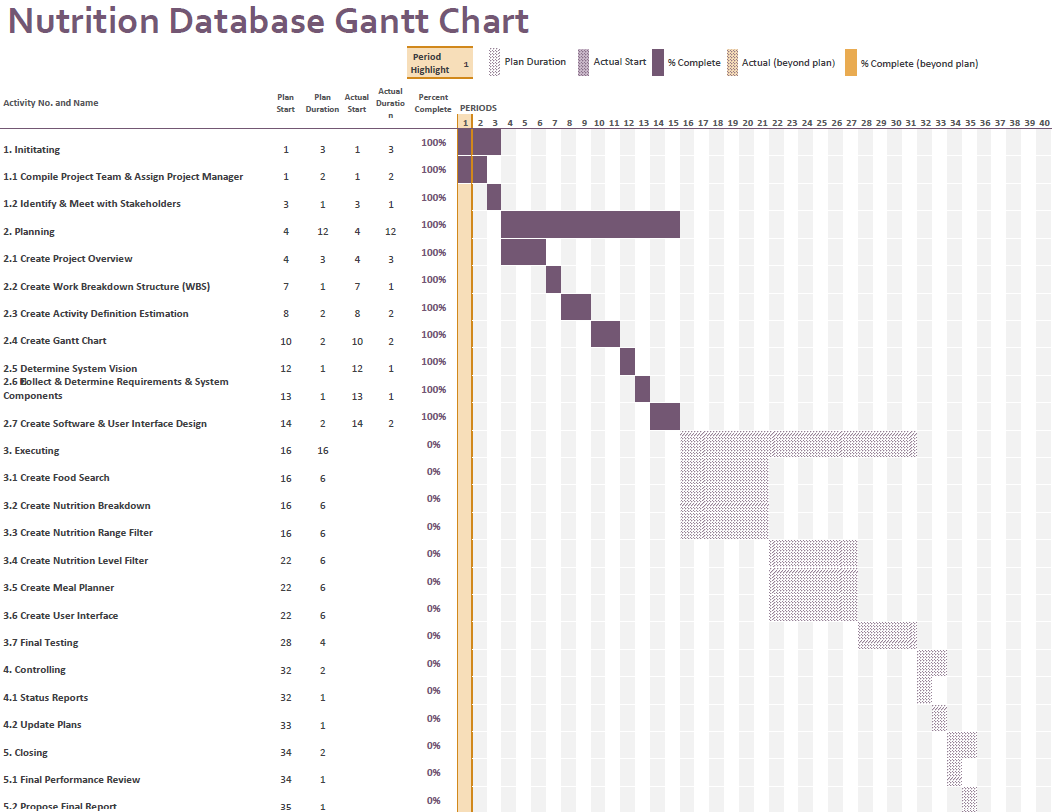
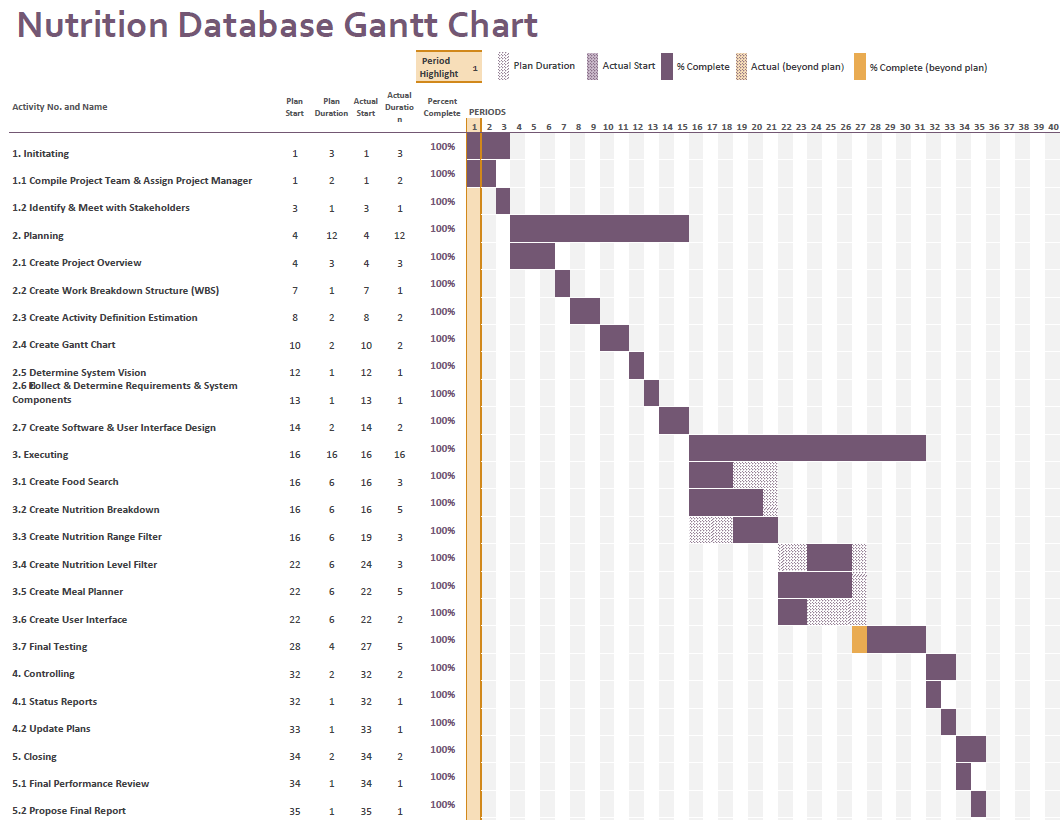
1.9

diff --git a/documents/Project Plan.md b/documents/Project Plan.md
@@ -15,11 +15,11 @@
 
 Please Describe what you have accomplished in this group project.
 - s5404039, Ekaterina Kozub
-  - Accomplishments: Project Overview, Activity Definition Estimation, Gantt Chart, System Vision, Requirements, Software Design (Flowchart), Food Search (Feature), Nutritional Breakdown (Feature), general setup of project, and general reviewing and editing.
+  - Accomplishments: Project Overview, Activity Definition Estimation, Gantt Chart, System Vision, Requirements, Software Design (Flowchart), general setup of project, general reviewing and editing, <span style="color:red">Food Search (Feature), and Nutritional Breakdown (Feature). </span>
 - s5271400, Ella Baines-Lang
-  - Accomplishments: Work Breakdown Structure, System Components (Functions & Detailed Design), User Interface Design (Visual Design), and User Interface (Code).
+  - Accomplishments: Work Breakdown Structure, System Components (Functions & Detailed Design), User Interface Design (Visual Design), and <span style="color:red">User Interface (Code).</span>
 - s5303300, Fiston Kayeye
-  - Accomplishments: Activity Definition Estimation, Gantt Chart, Data Structures, User Interface Design (Structural Design), and Nutritional Breakown (Feature).
+  - Accomplishments: Activity Definition Estimation, Gantt Chart, Data Structures, User Interface Design (Structural Design), and <span style="color:red"> Nutritional Breakown (Feature).</span>
 
 <div style="page-break-after: always;"></div>
 
@@ -100,35 +100,38 @@ The health enthusiasts are general users that are interested in having a healthy
 ![Work Breakdown Structure](images/WBS.png)
 
 ## 3. Activity Definition Estimation
-The whole project will take 35 days (excluding weekends as these days will not be work days for this project). Some tasks will be done consecutively, so look at the Gantt Chart to get further detail.
+The whole project will take 35 days (excluding weekends as these days will not be work days for this project). Some tasks will be done consecutively, so look at the Gantt Chart to get further detail.<span style="color:red">Some tasks took longer/shorter than expected (this will be shown in the Gantt Chart) and some teammates did work that they weren't assigned due to other teammates shortcomings. This Activity Definition Estimation table will outline the updated teammates that did some of the tasks they were not orginally assigned.</span>
 
-| Activity #No | Activity Name | Brief Description | Duration | Responsible Team Members |
-|--------------|---------------|-------------------|----------|--------------------------|
-| 1          | Initiating           | Start project, assign Project Manager, and identify and meet with stakeholders.               | 3 days      | All               |
-| 1.1         | Compile Project Team & Assign Project Manager           | Assemble team and determine the Project Manager.               | 2 days      | All                      |
-| 1.2        | Identify & Meet with Stakeholders           | Identify key stakeholders and conduct a meeting with them.               | 1 day      | All                      |
-| 2        | Planning           | Develop a detailed plan covering all aspects of the project.               | 12 days      | All                      |
-| 2.1       | Create Project Overview           | Create a Project Overview Document that defines the objectives, stakeholder, and scope.               | 3 days      | Ekaterina                      |
-| 2.2        | Create Work Breakdown Structure (WBS)           | Break down the project into smaller and more manageable tasks. Visualizing this through an image.               | 1 day      | Ella                      |
-| 2.3        | Create Activity Definition Estimation          | From the WBS make an Activity Definition Estimation that provides a brief description, duration, and responsible team members for each task.               | 2 days      | Ekaterina & Fiston                      |
-| 2.4        | Create Gantt Chart           | Create a Gantt Chart that visualizes the Activity Definition Estimation.               | 2 days      | Ekaterina & Fiston                      |
-| 2.5        | Determine System Vision           | Create the System Vision Document that includes the problem background, system capabilities/overview, and potential benefits of the system.               | 1 day      | Ekaterina                      |
-| 2.6        | Collect & Determine Requirements & System Components           | Collect and determine requirements, this includes user requirements, software requirements, use case diagrams, and use cases. The same will go with the System Components, which includes functions, data structures/data sources, and a detailed design.                | 1 day      | All                      |
-| 2.7        | Create Software & User Interface Design           | Create a Structural, Visual, and Software Design.               | 2 days      | Ella & Fiston                      |
-| 3        | Executing           | Implement the project plan and create code.              | 16 days      | All                      |
-| 3.1        | Create Food Search         | Develop the Food Search function.               | 6 days      | Ekaterina                      |
-| 3.2        | Create Nutrition Breakdown         | Develop the Nutrition Breakdown function.               | 6 days      | Ella                      |
-| 3.3        | Create Nutrition Range Filter         | Develop the Nutrition Range Filter function.             | 6 days      | Fiston                      |
-| 3.4        | Create Nutrition Level Filter         | Develop the Nutrition Level Filter function.              | 6 days      | Fiston                      |
-| 3.5        | Create Meal Planner         | Develop the Meal Planner function.               | 6 days      | Ella                      |
-| 3.6        | Create User Interface         | Develop the User Interface function.               | 6 days      | Ekaterina                      |
-| 3.7        | Final Testing         | Test the whole system and correct errors.               | 4 days      | All                      |
-| 4        | Controlling         | Monitor and control the project's progress.               | 2 days      | Ekaterina                      |
-| 4.1        | Status Reports         | Generate regular status reports.               | 1 day      | Ekaterina                      |
-| 4.2        | Update Plans         | Adjust plans over the projects progress.               | 1 day      | Ekaterina                      |
-| 5        | Closing         | Finalize and close the project.               | 2 days      | All                      |
-| 5.1     | Final Performance Review         | Review the project's performance against the objectives.               | 1 day      | All                      |
-| 5.2        | Propose Final Report         | Create a final project report.               | 1 day      | All                      |
+| Activity #No | Activity Name | Brief Description | Duration | Responsible Team Members                           |
+|--------------|---------------|-------------------|----------|----------------------------------------------------|
+| 1          | Initiating           | Start project, assign Project Manager, and identify and meet with stakeholders.               | 3 days      | All                                                |
+| 1.1         | Compile Project Team & Assign Project Manager           | Assemble team and determine the Project Manager.               | 2 days      | All                                                |
+| 1.2        | Identify & Meet with Stakeholders           | Identify key stakeholders and conduct a meeting with them.               | 1 day      | All                                                |
+| 2        | Planning           | Develop a detailed plan covering all aspects of the project.               | 12 days      | All                                                |
+| 2.1       | Create Project Overview           | Create a Project Overview Document that defines the objectives, stakeholder, and scope.               | 3 days      | Ekaterina                                          |
+| 2.2        | Create Work Breakdown Structure (WBS)           | Break down the project into smaller and more manageable tasks. Visualizing this through an image.               | 1 day      | Ella                                               |
+| 2.3        | Create Activity Definition Estimation          | From the WBS make an Activity Definition Estimation that provides a brief description, duration, and responsible team members for each task.               | 2 days      | Ekaterina & Fiston                                 |
+| 2.4        | Create Gantt Chart           | Create a Gantt Chart that visualizes the Activity Definition Estimation.               | 2 days      | Ekaterina & Fiston                                 |
+| 2.5        | Determine System Vision           | Create the System Vision Document that includes the problem background, system capabilities/overview, and potential benefits of the system.               | 1 day      | Ekaterina                                          |
+| 2.6        | Collect & Determine Requirements & System Components           | Collect and determine requirements, this includes user requirements, software requirements, use case diagrams, and use cases. The same will go with the System Components, which includes functions, data structures/data sources, and a detailed design.                | 1 day      | All                                                |
+| 2.7        | Create Software & User Interface Design           | Create a Structural, Visual, and Software Design.               | 2 days      | Ella & Fiston                                      |
+| 3        | Executing           | Implement the project plan and create code.              | 16 days      | All                                                |
+| 3.1        | Create Food Search         | Develop the Food Search function.               | 6 days      | Ekaterina                                          |
+| 3.2        | Create Nutrition Breakdown         | Develop the Nutrition Breakdown function.               | 6 days      | Ella                                               |
+| 3.3        | Create Nutrition Range Filter         | Develop the Nutrition Range Filter function.             | 6 days      | Fiston <span style="color:red"> & Ekaterina</span> |
+| 3.4        | Create Nutrition Level Filter         | Develop the Nutrition Level Filter function.              | 6 days      | Fiston <span style="color:red"> & Ekaterina</span> |
+| 3.5        | Create Meal Planner         | Develop the Meal Planner function.               | 6 days      | Ella                                               |
+| 3.6        | Create User Interface         | Develop the User Interface function.               | 6 days      | Ekaterina                                          |
+| 3.7        | Final Testing         | Test the whole system and correct errors.               | 4 days      | All                                                |
+| 4        | Controlling         | Monitor and control the project's progress.               | 2 days      | Ekaterina                                          |
+| 4.1        | Status Reports         | Generate regular status reports.               | 1 day      | Ekaterina                                          |
+| 4.2        | Update Plans         | Adjust plans over the projects progress.               | 1 day      | Ekaterina                                          |
+| 5        | Closing         | Finalize and close the project.               | 2 days      | All                                                |
+| 5.1     | Final Performance Review         | Review the project's performance against the objectives.               | 1 day      | All                                                |
+| 5.2        | Propose Final Report         | Create a final project report.               | 1 day      | All                                                |
 
 ## 4. Gantt Chart
+
+<span style="color:red"> Here is the updated Gantt Chart, showing the time it took to complete the executing, controlling, and closing phase of the project.</span>
+
 ![Gantt Chart](images/Gantt_Chart.png)

diff --git a/documents/Software Design Document.md b/documents/Software Design Document.md
@@ -44,7 +44,6 @@
 <div style="page-break-after: always;"></div>
 
 
-
 ## 1. System Vision
 
 ### 1.1 Problem Background
